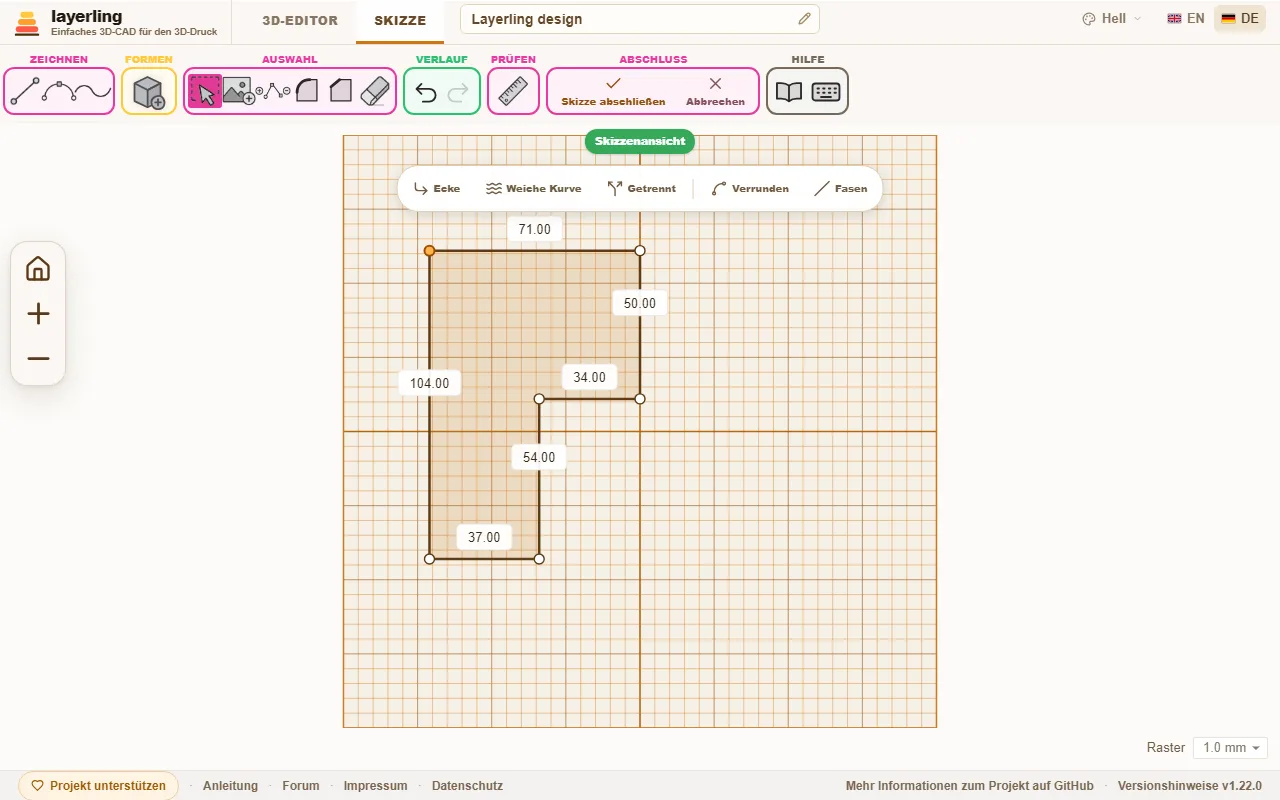
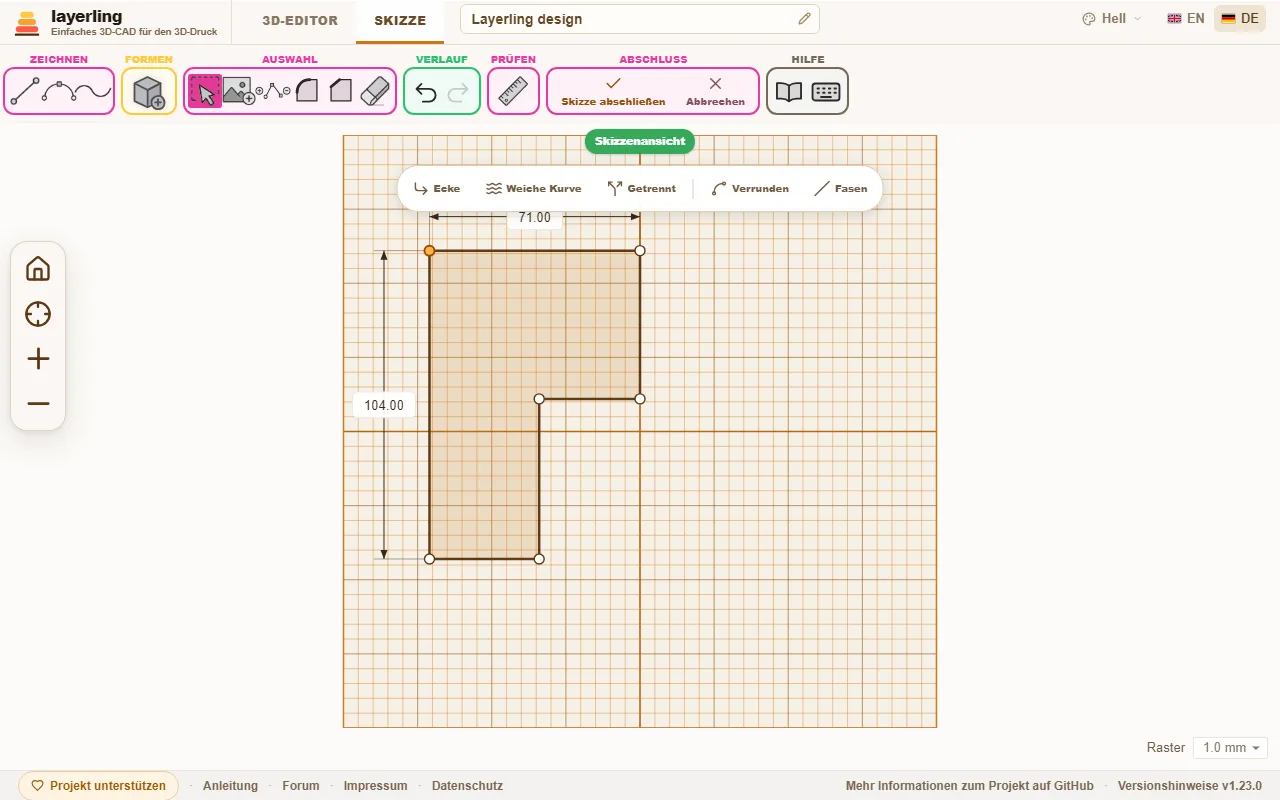
feat: sketch shortcuts in the shortcut list, guide text and pictures for dimensions on selection
Follows the merge of PR #51 (@gogades): F, Home and Shift+F in the sketch are listed in the
shortcuts dialog (and so in the guide), the sketches chapter says that dimensions show for
the selection, and the sketch pictures are retaken. Changelog entry under Unreleased.

diff --git a/apps/web/src/lib/messages.de.ts b/apps/web/src/lib/messages.de.ts
@@ -444,6 +444,8 @@ export const MESSAGES_DE: Record<MessageKey, string> = {
   "shortcuts.sketchDelete": "Gewähltes Element löschen",
   "shortcuts.sketchRotate": "Geschlossene Skizze um 45° drehen",
   "shortcuts.sketchLockImage": "Vorlagenbild sperren oder entsperren",
+  "shortcuts.sketchResetView": "Die ganze Skizze ins Bild holen",
+  "shortcuts.sketchFocusSelection": "Auf die Auswahl der Skizze zoomen",
   "shortcuts.edgeApply": "Vorschau anwenden",
   "shortcuts.edgeCancel": "Vorschau verwerfen",
   "editor.modeLabel": "Editor-Modus",

diff --git a/apps/web/src/lib/messages.en.ts b/apps/web/src/lib/messages.en.ts
@@ -445,6 +445,8 @@ export const MESSAGES_EN = {
   "shortcuts.sketchDelete": "Delete the selected element",
   "shortcuts.sketchRotate": "Rotate a closed sketch by 45°",
   "shortcuts.sketchLockImage": "Lock or unlock the reference image",
+  "shortcuts.sketchResetView": "Fit the whole sketch in the view",
+  "shortcuts.sketchFocusSelection": "Zoom to the selection in the sketch",
   "shortcuts.edgeApply": "Apply the preview",
   "shortcuts.edgeCancel": "Discard the preview",
   "editor.modeLabel": "Editor mode",

diff --git a/apps/web/src/components/workplane/ShortcutsModal.tsx b/apps/web/src/components/workplane/ShortcutsModal.tsx
@@ -107,6 +107,8 @@ const SHORTCUT_GROUPS: ShortcutGroup[] = [
       { combos: ["Ctrl+Shift+Z", "Ctrl+Y"], label: "shortcuts.redo" },
       { combos: ["R"], label: "shortcuts.sketchRotate" },
       { combos: ["L"], label: "shortcuts.sketchLockImage" },
+      { combos: ["F", "Home"], label: "shortcuts.sketchResetView" },
+      { combos: ["Shift+F"], label: "shortcuts.sketchFocusSelection" },
     ],
   },
   {

diff --git a/docs/guide/de/07-skizzen.md b/docs/guide/de/07-skizzen.md
@@ -22,11 +22,12 @@ Das Menüband des Skizzenmodus ist in Bereiche geteilt:
 - **Formen:** {{ui:sketch.addShape}} bietet fertige Umrisse: {{ui:sketch.rectangle}}, {{ui:sketch.circle}}, {{ui:sketch.ellipse}}, {{ui:sketch.halfCircle}}, {{ui:sketch.pieSlice}}, {{ui:sketch.boltCircle}} (eine Scheibe mit Bohrungen), {{ui:sketch.triangle}} und {{ui:sketch.hexagon}}. Wähle eine aus und ziehe einen Rahmen auf.
 - **Auswahl:** {{ui:sketch.select}} verschiebt Punkte und Linien. {{ui:sketch.refine}}: Ein Klick auf einen Abschnitt setzt einen Punkt, ein Klick auf einen Punkt entfernt ihn. Dazu kommen {{ui:sketch.erase}} und das Einfügen eines Vorlagenbilds ({{ui:sketch.addImage}}).
 - **Verlauf:** {{ui:sketch.undo}} und {{ui:sketch.redo}}.
-- **Prüfen:** {{ui:sketch.measure}} misst den Abstand zwischen zwei Punkten.
+- **Prüfen:** {{ui:sketch.measure}} misst den Abstand zwischen zwei Punkten. Außerdem zeigt die Skizze Maße, sobald du etwas anklickst: bei einer Linie ihre Länge, bei einem Punkt die Längen der Linien, die dort zusammentreffen.
+- **Ansicht:** [[F]] holt die ganze Skizze ins Bild, [[Umschalt]]+[[F]] zoomt auf die Auswahl, wie im 3D-Editor.
 
 Ein Körper entsteht nur aus einem **geschlossenen** Umriss.
 
-![Ein L-förmiger Umriss. An jeder Kante steht ihre Länge in Millimetern.](shot:sketch-outline)
+![Ein L-förmiger Umriss. Am gewählten Eckpunkt oben links stehen die Längen der beiden Linien in Millimetern.](shot:sketch-outline)
 
 ## Ecken runden oder fasen
 

diff --git a/docs/guide/en/07-sketches.md b/docs/guide/en/07-sketches.md
@@ -22,11 +22,12 @@ The ribbon in sketch mode is divided into areas:
 - **Shapes:** {{ui:sketch.addShape}} offers ready-made outlines: {{ui:sketch.rectangle}}, {{ui:sketch.circle}}, {{ui:sketch.ellipse}}, {{ui:sketch.halfCircle}}, {{ui:sketch.pieSlice}}, {{ui:sketch.boltCircle}} (a disc with holes), {{ui:sketch.triangle}} and {{ui:sketch.hexagon}}. Pick one and drag a frame.
 - **Selection:** {{ui:sketch.select}} moves points and lines. {{ui:sketch.refine}}: a click on a section adds a point, a click on a point removes it. Also there are {{ui:sketch.erase}} and inserting a template image ({{ui:sketch.addImage}}).
 - **History:** {{ui:sketch.undo}} and {{ui:sketch.redo}}.
-- **Inspect:** {{ui:sketch.measure}} measures the distance between two points.
+- **Inspect:** {{ui:sketch.measure}} measures the distance between two points. The sketch also shows dimensions as soon as you click something: the length of a line, or for a point the lengths of the lines that meet there.
+- **View:** [[F]] fits the whole sketch in the view, [[Shift]]+[[F]] zooms to the selection, as in the 3D editor.
 
 A body comes only from a **closed** outline.
 
-![An L-shaped outline. The length of each edge is shown in millimetres.](shot:sketch-outline)
+![An L-shaped outline. At the selected corner point, top left, the lengths of the two lines are shown in millimetres.](shot:sketch-outline)
 
 ## Rounding or chamfering corners
 

diff --git a/docs/CHANGELOG.md b/docs/CHANGELOG.md
@@ -4,6 +4,12 @@ layerling started over at 1.0.0 when it was forked from SketchForge-3D 1.0.9.
 Everything from 1.0.9 downwards is SketchForge's history, kept here because the
 code still carries it - so a lower number further down is older, not newer.
 
+## Unreleased
+
+- **Sketch view shortcuts:** `F` or `Home` fits the whole sketch in the view and `Shift+F` zooms to the selection, like in the 3D editor, with a new button next to the home button. The sketch shortcut list and the guide name them. Contributed by @gogades (#51).
+- **Sketch dimensions on selection:** The sketch shows lengths only for the selected line, or for the lines that meet at the selected point, with extension lines and arrows outside the shape; labels move out of each other's way. Before, every length was shown all the time. Contributed by @gogades (#51).
+- **Kernel:** layerling runs on the official occt-wasm 5.4.0 again, which contains the join type for hollowing; the own build from henmedia/occt-wasm is no longer needed.
+
 ## 1.23.0
 
 - **Teardrop hole:** A new shape for horizontal holes that print without supports: a round part with a point on top, so no layer has to bridge the hole. Width is the diameter, depth the length of the hole, and the tip angle (90 degrees by default, flanks at 45) can be typed in the inspector; a new diameter keeps the angle. Make it a hole and group it with the part.
